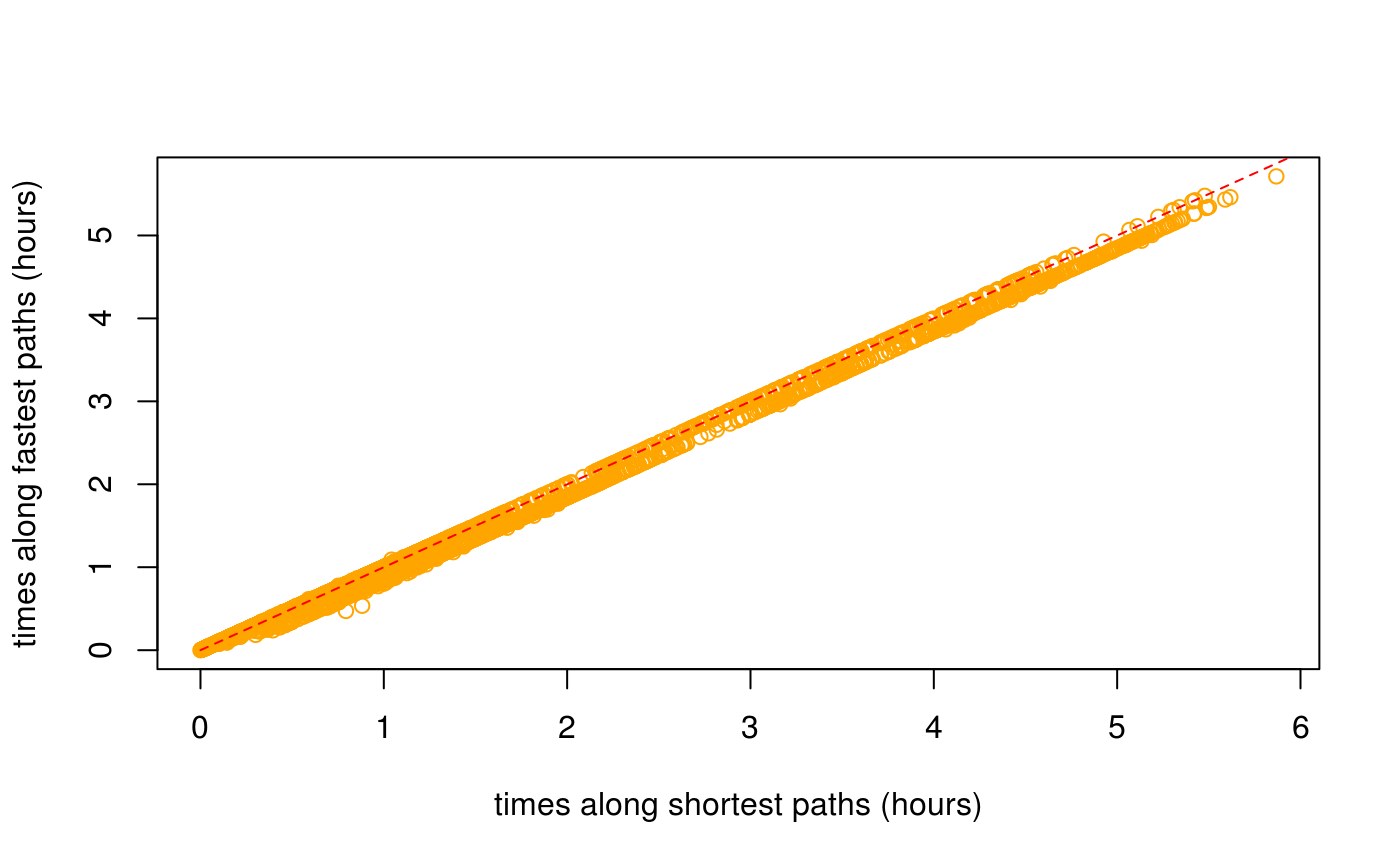
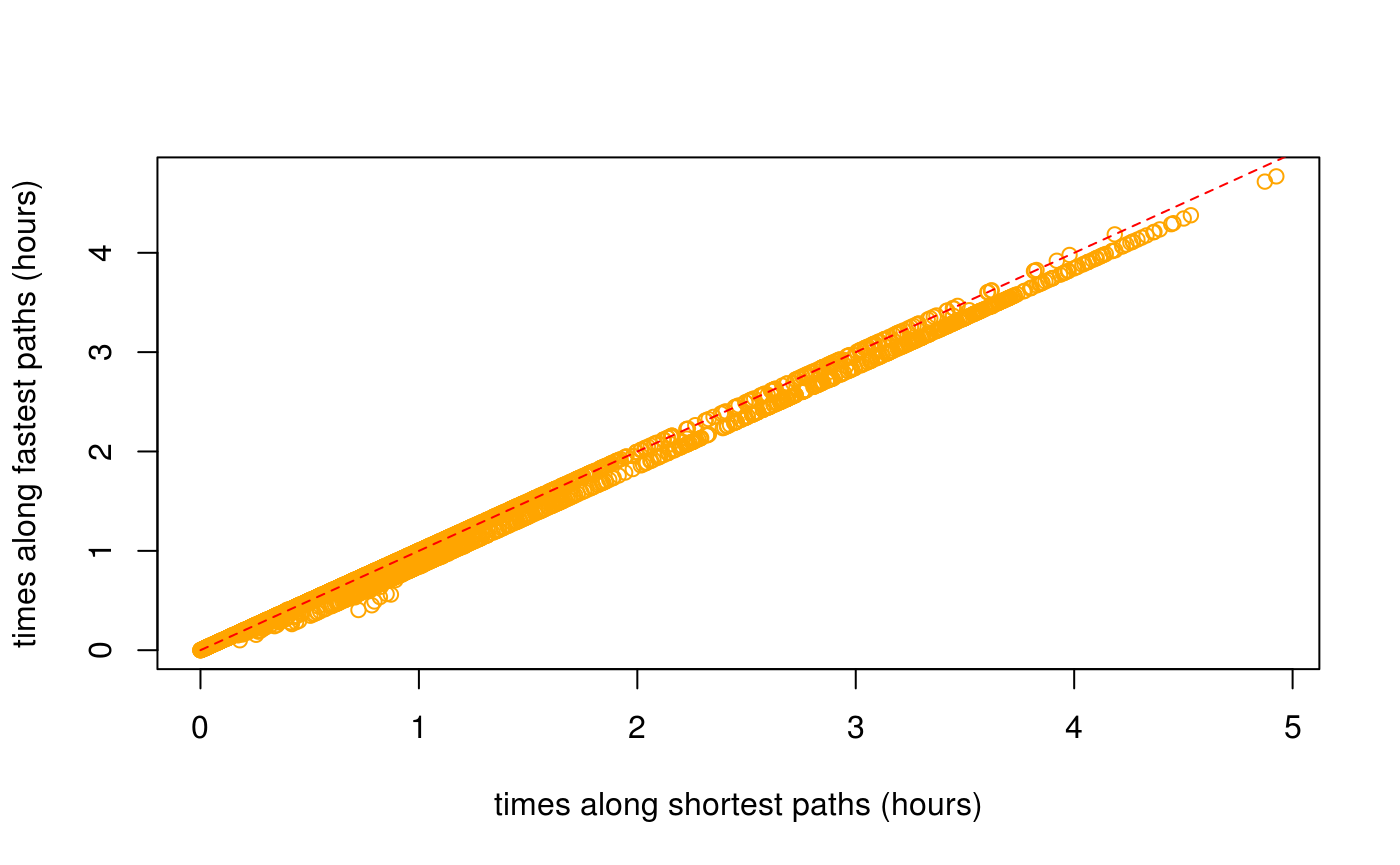
Built site for dodgr: 0.1.4.1@cdb0e49

diff --git a/articles/dodgr.html b/articles/dodgr.html
@@ -366,7 +366,7 @@ Figure 2: A <strong>dual</strong>-weighted, directed graph in which the weights 
 <div class="sourceCode" id="cb64"><pre class="sourceCode r"><code class="sourceCode r"><a class="sourceLine" id="cb64-1" data-line-number="1">d &lt;-<span class="st"> </span><span class="kw"><a href="../reference/dodgr_dists.html">dodgr_dists</a></span> (graph, <span class="dt">from =</span> xy)</a>
 <a class="sourceLine" id="cb64-2" data-line-number="2"><span class="kw"><a href="https://www.rdocumentation.org/packages/base/topics/dim">dim</a></span> (d); <span class="kw"><a href="https://www.rdocumentation.org/packages/base/topics/range">range</a></span> (d, <span class="dt">na.rm =</span> <span class="ot">TRUE</span>)</a></code></pre></div>
 <pre><code>## [1]  100 2861</code></pre>
-<pre><code>## [1]     0.0 28722.8</code></pre>
+<pre><code>## [1]     0.00 28624.11</code></pre>
 <p>If the <code>to</code> argument is also specified, the matrix returned will have rows matching <code>from</code> and columns matching <code>to</code></p>
 <div class="sourceCode" id="cb67"><pre class="sourceCode r"><code class="sourceCode r"><a class="sourceLine" id="cb67-1" data-line-number="1">d &lt;-<span class="st"> </span><span class="kw"><a href="../reference/dodgr_dists.html">dodgr_dists</a></span> (graph, <span class="dt">from =</span> xy, <span class="dt">to =</span> xy [<span class="dv">1</span><span class="op">:</span><span class="dv">10</span>, ])</a>
 <a class="sourceLine" id="cb67-2" data-line-number="2"><span class="kw"><a href="https://www.rdocumentation.org/packages/base/topics/dim">dim</a></span> (d)</a></code></pre></div>
@@ -420,31 +420,31 @@ Figure 2: A <strong>dual</strong>-weighted, directed graph in which the weights 
 <p>The comparisons are actually made on a randomly selected sub-component of the graph containing a defined number of vertices (with a default of 1,000, or the entire graph if it contains fewer than 1,000 vertices).</p>
 <div class="sourceCode" id="cb77"><pre class="sourceCode r"><code class="sourceCode r"><a class="sourceLine" id="cb77-1" data-line-number="1"><span class="kw"><a href="../reference/compare_heaps.html">compare_heaps</a></span> (graph, <span class="dt">nverts =</span> <span class="dv">100</span>, <span class="dt">replications =</span> <span class="dv">1</span>)</a></code></pre></div>
 <pre><code>##                                                                                   test
-## 6       d &lt;- dodgr_dists(graph_contracted, from = from_id, to = to_id, heap = "BHeap")
-## 7       d &lt;- dodgr_dists(graph_contracted, from = from_id, to = to_id, heap = "FHeap")
-## 8     d &lt;- dodgr_dists(graph_contracted, from = from_id, to = to_id, heap = "TriHeap")
-## 9  d &lt;- dodgr_dists(graph_contracted, from = from_id, to = to_id, heap = "TriHeapExt")
-## 11        d &lt;- dodgr_dists(graph_contracted, from = from_id, to = to_id, heap = "set")
 ## 12                  d &lt;- igraph::distances(igr, v = from_id, to = to_id, mode = "out")
+## 7       d &lt;- dodgr_dists(graph_contracted, from = from_id, to = to_id, heap = "FHeap")
+## 9  d &lt;- dodgr_dists(graph_contracted, from = from_id, to = to_id, heap = "TriHeapExt")
+## 10     d &lt;- dodgr_dists(graph_contracted, from = from_id, to = to_id, heap = "Heap23")
 ## 1                  d &lt;- dodgr_dists(graph, from = from_id, to = to_id, heap = "BHeap")
 ## 2                  d &lt;- dodgr_dists(graph, from = from_id, to = to_id, heap = "FHeap")
 ## 3                d &lt;- dodgr_dists(graph, from = from_id, to = to_id, heap = "TriHeap")
 ## 4             d &lt;- dodgr_dists(graph, from = from_id, to = to_id, heap = "TriHeapExt")
 ## 5                 d &lt;- dodgr_dists(graph, from = from_id, to = to_id, heap = "Heap23")
-## 10     d &lt;- dodgr_dists(graph_contracted, from = from_id, to = to_id, heap = "Heap23")
+## 6       d &lt;- dodgr_dists(graph_contracted, from = from_id, to = to_id, heap = "BHeap")
+## 8     d &lt;- dodgr_dists(graph_contracted, from = from_id, to = to_id, heap = "TriHeap")
+## 11        d &lt;- dodgr_dists(graph_contracted, from = from_id, to = to_id, heap = "set")
 ##    replications elapsed relative user.self sys.self user.child sys.child
-## 6             1   0.002      1.0     0.004        0          0         0
-## 7             1   0.002      1.0     0.000        0          0         0
-## 8             1   0.002      1.0     0.004        0          0         0
-## 9             1   0.002      1.0     0.000        0          0         0
-## 11            1   0.002      1.0     0.004        0          0         0
-## 12            1   0.002      1.0     0.000        0          0         0
-## 1             1   0.003      1.5     0.004        0          0         0
-## 2             1   0.003      1.5     0.004        0          0         0
-## 3             1   0.003      1.5     0.004        0          0         0
-## 4             1   0.003      1.5     0.000        0          0         0
-## 5             1   0.003      1.5     0.004        0          0         0
-## 10            1   0.003      1.5     0.004        0          0         0</code></pre>
+## 12            1   0.001        1     0.000        0          0         0
+## 7             1   0.002        2     0.004        0          0         0
+## 9             1   0.002        2     0.000        0          0         0
+## 10            1   0.002        2     0.004        0          0         0
+## 1             1   0.003        3     0.004        0          0         0
+## 2             1   0.003        3     0.000        0          0         0
+## 3             1   0.003        3     0.000        0          0         0
+## 4             1   0.003        3     0.004        0          0         0
+## 5             1   0.003        3     0.004        0          0         0
+## 6             1   0.003        3     0.004        0          0         0
+## 8             1   0.003        3     0.004        0          0         0
+## 11            1   0.003        3     0.004        0          0         0</code></pre>
 <p>The key column of that <code>data.frame</code> is <code>relative</code>, which quantifies the relative performance of each test in relation to the best which is given a score of 1. <code>dodgr</code> using the default <code>heap = "BHeap"</code>, which is a binary heap priority queue, performs faster than <code>igraph</code> <span class="citation">(Csardi and Nepusz 2006)</span> for these graphs. Different kind of graphs will perform differently with different priority queue structures, and this function enables users to empirically discern the optimal heap for their kind of graph.</p>
 <p>Note, however, that this is not an entirely fair comparison, because <code>dodgr</code> calculates dual-weighted distances, whereas <code>igraph</code>—and indeed all other <strong>R</strong> packages—only directly calculate distances based on a single set of weights. Implementing dual-weighted routing in these cases requires explicitly re-tracing all paths and summing the second set of weights along each path. A time comparison in that case would be very strongly in favour of <code>dodgr</code>. Moreover, <code>dodgr</code> can convert graphs to contracted form through removing redundant vertices, as detailed in the following section. Doing so greatly improves performance with respect to <code>igraph</code>.</p>
 <p>For those wishing to do explicit comparisons themselves, the following code generates the <code>igraph</code> equivalent of <code><a href="../reference/dodgr_dists.html">dodgr_dists()</a></code>, although of course for single-weighted graphs only:</p>
@@ -482,10 +482,10 @@ Figure 3: <strong>(A)</strong> Vertex#2 is redundant for routing calculations fr
 <a class="sourceLine" id="cb85-6" data-line-number="6">                       <span class="dt">replications =</span> <span class="dv">2</span>)</a></code></pre></div>
 <pre><code>##                                             test replications elapsed
 ## 2 d2 &lt;- dodgr_dists(graph, from = from, to = to)            2   0.049
-## 1   d2 &lt;- dodgr_dists(grc, from = from, to = to)            2   0.009
+## 1   d2 &lt;- dodgr_dists(grc, from = from, to = to)            2   0.010
 ##   relative user.self sys.self user.child sys.child
-## 2    5.444     0.068    0.000          0         0
-## 1    1.000     0.012    0.004          0         0</code></pre>
+## 2      4.9     0.072        0          0         0
+## 1      1.0     0.012        0          0         0</code></pre>
 <p>And contracting the graph has a similar effect of speeding up pairwise routing between these 100 points. All routing algorithms scale non-linearly with size, and relative improvements in efficiency will be even greater for larger graphs.</p>
 <div id="routing-on-contracted-graphs" class="section level2">
 <h2 class="hasAnchor">
@@ -497,11 +497,11 @@ Figure 3: <strong>(A)</strong> Vertex#2 is redundant for routing calculations fr
 <pre><code>## [1] 688</code></pre>
 <div class="sourceCode" id="cb89"><pre class="sourceCode r"><code class="sourceCode r"><a class="sourceLine" id="cb89-1" data-line-number="1">verts &lt;-<span class="st"> </span><span class="kw"><a href="https://www.rdocumentation.org/packages/base/topics/sample">sample</a></span> (<span class="kw"><a href="../reference/dodgr_vertices.html">dodgr_vertices</a></span> (graph)<span class="op">$</span>id, <span class="dt">size =</span> <span class="dv">100</span>)</a>
 <a class="sourceLine" id="cb89-2" data-line-number="2"><span class="kw"><a href="https://www.rdocumentation.org/packages/utils/topics/head">head</a></span> (verts) <span class="co"># a character vector</span></a></code></pre></div>
-<pre><code>## [1] "1691496075" "2608163913" "3544918690" "2398957733" "4035136510"
-## [6] "286632899"</code></pre>
+<pre><code>## [1] "1143452226" "2608159729" "338908580"  "338905245"  "1376769050"
+## [6] "2627465902"</code></pre>
 <div class="sourceCode" id="cb91"><pre class="sourceCode r"><code class="sourceCode r"><a class="sourceLine" id="cb91-1" data-line-number="1">grc &lt;-<span class="st"> </span><span class="kw"><a href="../reference/dodgr_contract_graph.html">dodgr_contract_graph</a></span> (graph, verts)<span class="op">$</span>graph</a>
 <a class="sourceLine" id="cb91-2" data-line-number="2"><span class="kw"><a href="https://www.rdocumentation.org/packages/base/topics/nrow">nrow</a></span> (grc)</a></code></pre></div>
-<pre><code>## [1] 855</code></pre>
+<pre><code>## [1] 870</code></pre>
 <p>Retaining the nominated vertices yields a graph with considerably more edges than the fully contracted graph excluding these vertices. The <code><a href="../reference/dodgr_dists.html">dodgr_dists()</a></code> function can be applied to the latter graph to obtain accurate distances precisely routed between these points, yet using the speed advantages of graph contraction.</p>
 </div>
 </div>
@@ -542,43 +542,30 @@ Figure 3: <strong>(A)</strong> Vertex#2 is redundant for routing calculations fr
 <pre><code>## [1] 10</code></pre>
 <p>The result (<code>dp</code>) is a list of 10 items, each of which contains 5 vectors. An example is,</p>
 <div class="sourceCode" id="cb98"><pre class="sourceCode r"><code class="sourceCode r"><a class="sourceLine" id="cb98-1" data-line-number="1">dp [[<span class="dv">1</span>]] [[<span class="dv">1</span>]]</a></code></pre></div>
-<pre><code>##   [1] "977472882"  "3818709606" "3818709607" "3818709608" "3818709609"
-##   [6] "3818709610" "3818709611" "3818709612" "339318473"  "339318471" 
-##  [11] "339318470"  "2636414337" "339318467"  "2636414331" "2636414338"
-##  [16] "339059754"  "977478675"  "1676740773" "4474520824" "245631133" 
-##  [21] "339059758"  "977478643"  "4474520825" "2627477681" "2627477680"
-##  [26] "2627477677" "2627477679" "3456932070" "2627477678" "2627477682"
-##  [31] "339574320"  "2398957885" "2398957883" "286632901"  "1148815150"
-##  [36] "676875132"  "2398957865" "286632900"  "980400336"  "2398957864"
-##  [41] "286632899"  "2398957863" "1715805189" "1715805188" "2398957850"
-##  [46] "286632898"  "2398957846" "1715805187" "980400489"  "338904394" 
-##  [51] "3921515457" "2398957849" "2398957851" "2398957854" "286632897" 
-##  [56] "2398957856" "1054864311" "338904393"  "4035136503" "2627477006"
-##  [61] "338512693"  "2398957844" "2398957842" "2398957841" "1604033309"
-##  [66] "2398957838" "286632896"  "2398957835" "2398957831" "1390214618"
-##  [71] "286632895"  "2398957814" "2398957809" "340148007"  "340148006" 
-##  [76] "2398957798" "2398957797" "2398957796" "2588155705" "2588155706"
-##  [81] "2588155726" "2588155778" "2588155740" "2588155776" "2588155714"
-##  [86] "2588155703" "2588155718" "2588155771" "2588155779" "2588155712"
-##  [91] "2588155755" "2588155754" "2588155750" "2588155777" "2588155716"
-##  [96] "2588155757" "2588155711" "2588155723" "2588155704" "2588155719"
-## [101] "2588155713" "2588155746" "2588155729" "2588155707" "2588155747"
-## [106] "2588155763" "2588155772" "2588155756" "2588155724" "2588155751"
-## [111] "2588155767" "2588155765" "2588155734" "2588155732" "2588155760"
-## [116] "2588155730" "2588155731" "2588155727" "2588155717" "2588155737"
-## [121] "2588155773" "2588155741" "2588155725" "2588155743" "2588155708"
-## [126] "2588155748"</code></pre>
+<pre><code>##  [1] "339574823"  "1668645472" "1668645470" "3818714154" "339574820" 
+##  [6] "339574819"  "3818714155" "2398957686" "339574631"  "2717241324"
+## [11] "1148814809" "2398957654" "2398957639" "339574630"  "339574629" 
+## [16] "2398957619" "339574628"  "1427115955" "338905128"  "1376769164"
+## [21] "1376768779" "338905219"  "2398957589" "2398957588" "1376768510"
+## [26] "1376769086" "2398957584" "338905220"  "2398957576" "1427594104"
+## [31] "2398957571" "2398957570" "2398957568" "338905221"  "2398957564"
+## [36] "338905227"  "2398957561" "2398957557" "2398957549" "338905245" 
+## [41] "2398957546" "2398957544" "2398957543" "2398957542" "676635860" 
+## [46] "2398957537" "2398957532" "2398957526" "2398957521" "676875267" 
+## [51] "2398957539" "2419196948" "313796433"  "1376768773" "2398957554"
+## [56] "2398957555" "313796432"  "3338186986" "2398957563" "2398957567"
+## [61] "313796431"  "313796430"  "1376769158" "1427594112"</code></pre>
 <p>For spatial graphs, the coordinates of these paths can be obtained by extracting the vertices with <code><a href="../reference/dodgr_vertices.html">dodgr_vertices()</a></code> and matching the vertex IDs:</p>
 <div class="sourceCode" id="cb100"><pre class="sourceCode r"><code class="sourceCode r"><a class="sourceLine" id="cb100-1" data-line-number="1">verts &lt;-<span class="st"> </span><span class="kw"><a href="../reference/dodgr_vertices.html">dodgr_vertices</a></span> (graph)</a>
 <a class="sourceLine" id="cb100-2" data-line-number="2">path1 &lt;-<span class="st"> </span>verts [<span class="kw"><a href="https://www.rdocumentation.org/packages/base/topics/match">match</a></span> (dp [[<span class="dv">1</span>]] [[<span class="dv">1</span>]], verts<span class="op">$</span>id), ]</a>
 <a class="sourceLine" id="cb100-3" data-line-number="3"><span class="kw"><a href="https://www.rdocumentation.org/packages/utils/topics/head">head</a></span> (path1)</a></code></pre></div>
 <pre><code>##              id        x        y component    n
-## 5136  977472882 76.46812 15.33634         1 2528
-## 5138 3818709606 76.46803 15.33643         1 2529
-## 5140 3818709607 76.46786 15.33643         1 2530
-## 5142 3818709608 76.46773 15.33631         1 2531
-## 5144 3818709609 76.46762 15.33624         1 2532
-## 5146 3818709610 76.46763 15.33614         1 2533</code></pre>
+## 540   339574823 76.47136 15.31896         1  275
+## 539  1668645472 76.47131 15.31880         1  274
+## 3178 1668645470 76.47131 15.31876         1 1594
+## 566  3818714154 76.47102 15.31856         1  288
+## 564   339574820 76.47107 15.31847         1  287
+## 562   339574819 76.47167 15.31746         1  286</code></pre>
 <p>Paths calculated on contracted graphs will of course have fewer vertices than those calculated on full graphs.</p>
 </div>
 <div id="aggregated-flows" class="section level1">
@@ -622,7 +609,7 @@ Figure 3: <strong>(A)</strong> Vertex#2 is redundant for routing calculations fr
 <p>Most flows are zero because they have only been calculated between very few points in the graph.</p>
 <div class="sourceCode" id="cb105"><pre class="sourceCode r"><code class="sourceCode r"><a class="sourceLine" id="cb105-1" data-line-number="1"><span class="kw"><a href="https://www.rdocumentation.org/packages/base/topics/summary">summary</a></span> (graph_f<span class="op">$</span>flow)</a></code></pre></div>
 <pre><code>##    Min. 1st Qu.  Median    Mean 3rd Qu.    Max. 
-##   0.000   0.000   0.000   7.154   2.479 100.085</code></pre>
+##   0.000   0.000   0.000   3.573   0.000  52.989</code></pre>
 </div>
 <div id="flow-dispersal" class="section level2">
 <h2 class="hasAnchor">
@@ -632,7 +619,7 @@ Figure 3: <strong>(A)</strong> Vertex#2 is redundant for routing calculations fr
 <a class="sourceLine" id="cb107-2" data-line-number="2">graph_f &lt;-<span class="st"> </span><span class="kw"><a href="../reference/dodgr_flows_disperse.html">dodgr_flows_disperse</a></span> (graph, <span class="dt">from =</span> from, <span class="dt">dens =</span> dens)</a>
 <a class="sourceLine" id="cb107-3" data-line-number="3"><span class="kw"><a href="https://www.rdocumentation.org/packages/base/topics/summary">summary</a></span> (graph_f<span class="op">$</span>flow)</a></code></pre></div>
 <pre><code>##      Min.   1st Qu.    Median      Mean   3rd Qu.      Max. 
-## 0.000e+00 0.000e+00 0.000e+00 3.627e-05 0.000e+00 8.885e-02</code></pre>
+## 0.000e+00 0.000e+00 0.000e+00 1.212e-05 0.000e+00 5.800e-02</code></pre>
 </div>
 <div id="merging-directed-flows" class="section level2">
 <h2 class="hasAnchor">
@@ -642,7 +629,7 @@ Figure 3: <strong>(A)</strong> Vertex#2 is redundant for routing calculations fr
 <p>Resultant graphs produced by <code><a href="../reference/merge_directed_flows.html">merge_directed_flows()</a></code> only include those edges having non-zero flows, and so:</p>
 <div class="sourceCode" id="cb110"><pre class="sourceCode r"><code class="sourceCode r"><a class="sourceLine" id="cb110-1" data-line-number="1"><span class="kw"><a href="https://www.rdocumentation.org/packages/base/topics/nrow">nrow</a></span> (graph_f); <span class="kw"><a href="https://www.rdocumentation.org/packages/base/topics/nrow">nrow</a></span> (graph_undir) <span class="co"># the latter is much smaller</span></a></code></pre></div>
 <pre><code>## [1] 5845</code></pre>
-<pre><code>## [1] 1974</code></pre>
+<pre><code>## [1] 1640</code></pre>
 <p>The resultant graph can readily be merged with the original graph to regain the original data on vertex coordinates through</p>
 <div class="sourceCode" id="cb113"><pre class="sourceCode r"><code class="sourceCode r"><a class="sourceLine" id="cb113-1" data-line-number="1">graph &lt;-<span class="st"> </span>graph [graph_undir<span class="op">$</span>edge_id, ]</a>
 <a class="sourceLine" id="cb113-2" data-line-number="2">graph<span class="op">$</span>flow &lt;-<span class="st"> </span>graph_undir<span class="op">$</span>flow</a></code></pre></div>

diff --git a/articles/times.html b/articles/times.html
@@ -233,11 +233,11 @@ Figure 1: Graph modification to account for turn angles, which introduces the ad
 <p><img src="times_files/figure-html/shortest-vs-fastest-1.png" width="700"></p>
 <p>The average distance between the two (in metres) is:</p>
 <div class="sourceCode" id="cb11"><pre class="sourceCode r"><code class="sourceCode r"><a class="sourceLine" id="cb11-1" data-line-number="1"><span class="kw"><a href="https://www.rdocumentation.org/packages/base/topics/mean">mean</a></span> (<span class="kw"><a href="https://www.rdocumentation.org/packages/base/topics/MathFun">abs</a></span> (d_time <span class="op">-</span><span class="st"> </span>d_dist), <span class="dt">na.rm =</span> <span class="ot">TRUE</span>)</a></code></pre></div>
-<pre><code>## [1] 31.20867</code></pre>
+<pre><code>## [1] 28.91005</code></pre>
 <p>The plot reveals that shortest distances are indeed somewhat shorter than distances along fastest paths, but also that some fastest paths are actually shorter than shortest paths:</p>
 <div class="sourceCode" id="cb13"><pre class="sourceCode r"><code class="sourceCode r"><a class="sourceLine" id="cb13-1" data-line-number="1">index &lt;-<span class="st"> </span><span class="kw"><a href="https://www.rdocumentation.org/packages/base/topics/which">which</a></span> (<span class="op">!</span><span class="kw"><a href="https://www.rdocumentation.org/packages/base/topics/NA">is.na</a></span> (d_time) <span class="op">&amp;</span><span class="st"> </span><span class="op">!</span><span class="kw"><a href="https://www.rdocumentation.org/packages/base/topics/NA">is.na</a></span> (d_dist))</a>
 <a class="sourceLine" id="cb13-2" data-line-number="2"><span class="kw"><a href="https://www.rdocumentation.org/packages/base/topics/length">length</a></span> (<span class="kw"><a href="https://www.rdocumentation.org/packages/base/topics/which">which</a></span> (d_time [index] <span class="op">&lt;</span><span class="st"> </span>d_dist [index])) <span class="op">/</span><span class="st"> </span><span class="kw"><a href="https://www.rdocumentation.org/packages/base/topics/length">length</a></span> (index)</a></code></pre></div>
-<pre><code>## [1] 0.01486784</code></pre>
+<pre><code>## [1] 0.01195446</code></pre>
 <p>While <code>dodgr</code> and indeed all routing engines attempt to maximally reconcile differences between fastest and shortest routes, there nevertheless remain important discrepancies. Foremost among these, and the primary reason why some fastest routes may in fact be shorter than shortest routes, is that fastest routes allocate preferences for different kinds of way based both on the <code>value</code> column in the <code>weighting_profiles$weighting_profiles</code> table illustrated above, and on the actual maximum speed of a given edge, which itself may be a combination of maximum speeds as specified in OSM itself, maximum speeds from the <code>weighting_profiles$weighting_profiles</code> table, or values specific to a given surface. The result is that some unique combination of maximum speeds along a network may lead to <em>fastest</em> routes being preferentially directed along a path that is actually shorter than the direct shortest path which is calculated independent of maximum speed values.</p>
 <p>Such discrepancies are important in understanding differences in routes <em>times</em> calculated along shortest versus fastest paths. These times can be calculated (in seconds) with the <a href="https://atfutures.github.io/dodgr/reference/dodgr_times.html"><code><a href="../reference/dodgr_times.html">dodgr_times()</a></code></a> function:</p>
 <div class="sourceCode" id="cb15"><pre class="sourceCode r"><code class="sourceCode r"><a class="sourceLine" id="cb15-1" data-line-number="1">t_dist &lt;-<span class="st"> </span><span class="kw"><a href="../reference/dodgr_times.html">dodgr_times</a></span> (graph, <span class="dt">from =</span> from, <span class="dt">to =</span> to, <span class="dt">shortest =</span> <span class="ot">TRUE</span>) <span class="co"># default</span></a>
@@ -248,11 +248,11 @@ Figure 1: Graph modification to account for turn angles, which introduces the ad
 <a class="sourceLine" id="cb15-6" data-line-number="6"><span class="kw"><a href="https://www.rdocumentation.org/packages/graphics/topics/lines">lines</a></span> (<span class="dv">0</span><span class="op">:</span><span class="dv">100</span>, <span class="dv">0</span><span class="op">:</span><span class="dv">100</span>, <span class="dt">col =</span> <span class="st">"red"</span>, <span class="dt">lty =</span> <span class="dv">2</span>)</a></code></pre></div>
 <p><img src="times_files/figure-html/shortest-vs-fastest-times-1.png" width="700"></p>
 <div class="sourceCode" id="cb16"><pre class="sourceCode r"><code class="sourceCode r"><a class="sourceLine" id="cb16-1" data-line-number="1"><span class="kw"><a href="https://www.rdocumentation.org/packages/base/topics/mean">mean</a></span> (<span class="kw"><a href="https://www.rdocumentation.org/packages/base/topics/MathFun">abs</a></span> (t_time <span class="op">-</span><span class="st"> </span>t_dist), <span class="dt">na.rm =</span> <span class="ot">TRUE</span>)</a></code></pre></div>
-<pre><code>## [1] 135.7356</code></pre>
+<pre><code>## [1] 93.77696</code></pre>
 <p>As above, times along fastest paths are generally less than times along shortest paths, although there are again a few exceptions:</p>
 <div class="sourceCode" id="cb18"><pre class="sourceCode r"><code class="sourceCode r"><a class="sourceLine" id="cb18-1" data-line-number="1">index &lt;-<span class="st"> </span><span class="kw"><a href="https://www.rdocumentation.org/packages/base/topics/which">which</a></span> (<span class="op">!</span><span class="kw"><a href="https://www.rdocumentation.org/packages/base/topics/NA">is.na</a></span> (t_time) <span class="op">&amp;</span><span class="st"> </span><span class="op">!</span><span class="kw"><a href="https://www.rdocumentation.org/packages/base/topics/NA">is.na</a></span> (t_dist))</a>
 <a class="sourceLine" id="cb18-2" data-line-number="2"><span class="kw"><a href="https://www.rdocumentation.org/packages/base/topics/length">length</a></span> (<span class="kw"><a href="https://www.rdocumentation.org/packages/base/topics/which">which</a></span> (t_dist [index] <span class="op">&lt;</span><span class="st"> </span>t_time [index])) <span class="op">/</span><span class="st"> </span><span class="kw"><a href="https://www.rdocumentation.org/packages/base/topics/length">length</a></span> (index)</a></code></pre></div>
-<pre><code>## [1] 0.007892805</code></pre>
+<pre><code>## [1] 0.01290323</code></pre>
 <p>These results demonstrate how the combination of the <a href="https://atfutures.github.io/dodgr/reference/dodgr_distances.html"><code><a href="../reference/dodgr_distances.html">dodgr_distances()</a></code></a> and <a href="https://atfutures.github.io/dodgr/reference/dodgr_times.html"><code><a href="../reference/dodgr_times.html">dodgr_times()</a></code></a> functions enable calculation of both distances and times along both shortest and fastest paths.</p>
 <div id="time-based-paths-and-flow-aggregation" class="section level2">
 <h2 class="hasAnchor">

diff --git a/reference/compare_heaps.html b/reference/compare_heaps.html
@@ -163,22 +163,22 @@ fair comparisons, run only once or re-start the current R session.</p>
 #&gt; 12                  d &lt;- igraph::distances(igr, v = from_id, to = to_id, mode = "out")
 #&gt; 1                  d &lt;- dodgr_dists(graph, from = from_id, to = to_id, heap = "BHeap")
 #&gt; 2                  d &lt;- dodgr_dists(graph, from = from_id, to = to_id, heap = "FHeap")
-#&gt; 5                 d &lt;- dodgr_dists(graph, from = from_id, to = to_id, heap = "Heap23")
 #&gt; 3                d &lt;- dodgr_dists(graph, from = from_id, to = to_id, heap = "TriHeap")
+#&gt; 5                 d &lt;- dodgr_dists(graph, from = from_id, to = to_id, heap = "Heap23")
 #&gt; 4             d &lt;- dodgr_dists(graph, from = from_id, to = to_id, heap = "TriHeapExt")
 #&gt;    replications elapsed relative user.self sys.self user.child sys.child
-#&gt; 6             1   0.008    1.000     0.012        0          0         0
-#&gt; 11            1   0.008    1.000     0.012        0          0         0
-#&gt; 7             1   0.009    1.125     0.016        0          0         0
-#&gt; 10            1   0.009    1.125     0.016        0          0         0
-#&gt; 8             1   0.010    1.250     0.016        0          0         0
-#&gt; 9             1   0.010    1.250     0.012        0          0         0
-#&gt; 12            1   0.019    2.375     0.020        0          0         0
-#&gt; 1             1   0.031    3.875     0.052        0          0         0
-#&gt; 2             1   0.041    5.125     0.072        0          0         0
-#&gt; 5             1   0.042    5.250     0.076        0          0         0
-#&gt; 3             1   0.043    5.375     0.076        0          0         0
-#&gt; 4             1   0.045    5.625     0.044        0          0         0</div></pre>
+#&gt; 6             1   0.010      1.0     0.016        0          0         0
+#&gt; 11            1   0.010      1.0     0.016        0          0         0
+#&gt; 7             1   0.012      1.2     0.020        0          0         0
+#&gt; 10            1   0.012      1.2     0.020        0          0         0
+#&gt; 8             1   0.013      1.3     0.020        0          0         0
+#&gt; 9             1   0.013      1.3     0.016        0          0         0
+#&gt; 12            1   0.024      2.4     0.024        0          0         0
+#&gt; 1             1   0.037      3.7     0.064        0          0         0
+#&gt; 2             1   0.049      4.9     0.088        0          0         0
+#&gt; 3             1   0.051      5.1     0.088        0          0         0
+#&gt; 5             1   0.051      5.1     0.092        0          0         0
+#&gt; 4             1   0.057      5.7     0.056        0          0         0</div></pre>
   </div>
   <div class="col-md-3 hidden-xs hidden-sm" id="sidebar">
     <h2>Contents</h2>

diff --git a/reference/match_points_to_graph.html b/reference/match_points_to_graph.html
@@ -152,9 +152,9 @@ matching.</p></td>
                   <span class='kw'>y</span> <span class='kw'>=</span> <span class='fu'><a href='https://www.rdocumentation.org/packages/base/topics/Extremes'>min</a></span> (<span class='no'>verts</span>$<span class='no'>y</span>) + <span class='fu'><a href='https://www.rdocumentation.org/packages/stats/topics/Uniform'>runif</a></span> (<span class='no'>npts</span>) * <span class='fu'><a href='https://www.rdocumentation.org/packages/base/topics/diff'>diff</a></span> (<span class='fu'><a href='https://www.rdocumentation.org/packages/base/topics/range'>range</a></span> (<span class='no'>verts</span>$<span class='no'>y</span>))
                   )
 <span class='no'>pts</span> <span class='kw'>&lt;-</span> <span class='fu'><a href='match_pts_to_graph.html'>match_pts_to_graph</a></span> (<span class='no'>verts</span>, <span class='no'>xy</span>)
-<span class='no'>pts</span> <span class='co'># an index into verts</span></div><div class='output co'>#&gt;  [1]  578 2194 1568  892  759  399   24  758  760 2793</div><div class='input'><span class='no'>pts</span> <span class='kw'>&lt;-</span> <span class='no'>verts</span>$<span class='no'>id</span> [<span class='no'>pts</span>]
-<span class='no'>pts</span> <span class='co'># names of those vertices</span></div><div class='output co'>#&gt;  [1] "3544918710" "2627486260" "1398748009" "1206252868" "1204772890"
-#&gt;  [6] "1376768504" "313796397"  "1388482047" "1204772804" "4506481406"</div></pre>
+<span class='no'>pts</span> <span class='co'># an index into verts</span></div><div class='output co'>#&gt;  [1] 1568  892  759  399   24  758  760 2793  771  581</div><div class='input'><span class='no'>pts</span> <span class='kw'>&lt;-</span> <span class='no'>verts</span>$<span class='no'>id</span> [<span class='no'>pts</span>]
+<span class='no'>pts</span> <span class='co'># names of those vertices</span></div><div class='output co'>#&gt;  [1] "1398748009" "1206252868" "1204772890" "1376768504" "313796397" 
+#&gt;  [6] "1388482047" "1204772804" "4506481406" "1204772759" "3544918713"</div></pre>
   </div>
   <div class="col-md-3 hidden-xs hidden-sm" id="sidebar">
     <h2>Contents</h2>

diff --git a/reference/match_pts_to_graph.html b/reference/match_pts_to_graph.html
@@ -152,9 +152,9 @@ matching.</p></td>
                   <span class='kw'>y</span> <span class='kw'>=</span> <span class='fu'><a href='https://www.rdocumentation.org/packages/base/topics/Extremes'>min</a></span> (<span class='no'>verts</span>$<span class='no'>y</span>) + <span class='fu'><a href='https://www.rdocumentation.org/packages/stats/topics/Uniform'>runif</a></span> (<span class='no'>npts</span>) * <span class='fu'><a href='https://www.rdocumentation.org/packages/base/topics/diff'>diff</a></span> (<span class='fu'><a href='https://www.rdocumentation.org/packages/base/topics/range'>range</a></span> (<span class='no'>verts</span>$<span class='no'>y</span>))
                   )
 <span class='no'>pts</span> <span class='kw'>&lt;-</span> <span class='fu'>match_pts_to_graph</span> (<span class='no'>verts</span>, <span class='no'>xy</span>)
-<span class='no'>pts</span> <span class='co'># an index into verts</span></div><div class='output co'>#&gt;  [1]  900 1484 1568  542  774  900 1827  758  527  434</div><div class='input'><span class='no'>pts</span> <span class='kw'>&lt;-</span> <span class='no'>verts</span>$<span class='no'>id</span> [<span class='no'>pts</span>]
-<span class='no'>pts</span> <span class='co'># names of those vertices</span></div><div class='output co'>#&gt;  [1] "571423209"  "1376768690" "1398748009" "677638827"  "1204772781"
-#&gt;  [6] "571423209"  "2588119056" "1388482047" "1161117413" "1128374394"</div></pre>
+<span class='no'>pts</span> <span class='co'># an index into verts</span></div><div class='output co'>#&gt;  [1] 1568  542  774  900 1827  758  527  434  431  760</div><div class='input'><span class='no'>pts</span> <span class='kw'>&lt;-</span> <span class='no'>verts</span>$<span class='no'>id</span> [<span class='no'>pts</span>]
+<span class='no'>pts</span> <span class='co'># names of those vertices</span></div><div class='output co'>#&gt;  [1] "1398748009" "677638827"  "1204772781" "571423209"  "2588119056"
+#&gt;  [6] "1388482047" "1161117413" "1128374394" "977461235"  "1204772804"</div></pre>
   </div>
   <div class="col-md-3 hidden-xs hidden-sm" id="sidebar">
     <h2>Contents</h2>

diff --git a/reference/dodgr_sample.html b/reference/dodgr_sample.html
@@ -141,7 +141,7 @@ the requested <code>nverts</code>.</p>
     <h2 class="hasAnchor" id="examples"><a class="anchor" href="#examples"></a>Examples</h2>
     <pre class="examples"><div class='input'><span class='no'>graph</span> <span class='kw'>&lt;-</span> <span class='fu'><a href='weight_streetnet.html'>weight_streetnet</a></span> (<span class='no'>hampi</span>)
 <span class='fu'><a href='https://www.rdocumentation.org/packages/base/topics/nrow'>nrow</a></span> (<span class='no'>graph</span>) <span class='co'># 5,742</span></div><div class='output co'>#&gt; [1] 5845</div><div class='input'><span class='no'>graph</span> <span class='kw'>&lt;-</span> <span class='fu'>dodgr_sample</span> (<span class='no'>graph</span>, <span class='kw'>nverts</span> <span class='kw'>=</span> <span class='fl'>200</span>)
-<span class='fu'><a href='https://www.rdocumentation.org/packages/base/topics/nrow'>nrow</a></span> (<span class='no'>graph</span>) <span class='co'># generally around 400 edges</span></div><div class='output co'>#&gt; [1] 403</div><div class='input'><span class='fu'><a href='https://www.rdocumentation.org/packages/base/topics/nrow'>nrow</a></span> (<span class='fu'><a href='dodgr_vertices.html'>dodgr_vertices</a></span> (<span class='no'>graph</span>)) <span class='co'># 200</span></div><div class='output co'>#&gt; [1] 200</div></pre>
+<span class='fu'><a href='https://www.rdocumentation.org/packages/base/topics/nrow'>nrow</a></span> (<span class='no'>graph</span>) <span class='co'># generally around 400 edges</span></div><div class='output co'>#&gt; [1] 397</div><div class='input'><span class='fu'><a href='https://www.rdocumentation.org/packages/base/topics/nrow'>nrow</a></span> (<span class='fu'><a href='dodgr_vertices.html'>dodgr_vertices</a></span> (<span class='no'>graph</span>)) <span class='co'># 200</span></div><div class='output co'>#&gt; [1] 200</div></pre>
   </div>
   <div class="col-md-3 hidden-xs hidden-sm" id="sidebar">
     <h2>Contents</h2>

diff --git a/reference/dodgr_flows_aggregate.html b/reference/dodgr_flows_aggregate.html
@@ -175,7 +175,7 @@ Fibonacci Heap (default; <code>FHeap</code>), Binary Heap (<code>BHeap</code>),
 <span class='co'># undirected flows on an equivalent undirected graph with:</span>
 <span class='no'>graph_undir</span> <span class='kw'>&lt;-</span> <span class='fu'><a href='merge_directed_flows.html'>merge_directed_flows</a></span> (<span class='no'>graph</span>)
 <span class='co'># This graph will only include those edges having non-zero flows, and so:</span>
-<span class='fu'><a href='https://www.rdocumentation.org/packages/base/topics/nrow'>nrow</a></span> (<span class='no'>graph</span>); <span class='fu'><a href='https://www.rdocumentation.org/packages/base/topics/nrow'>nrow</a></span> (<span class='no'>graph_undir</span>) <span class='co'># the latter is much smaller</span></div><div class='output co'>#&gt; [1] 5845</div><div class='output co'>#&gt; [1] 684</div><div class='input'>
+<span class='fu'><a href='https://www.rdocumentation.org/packages/base/topics/nrow'>nrow</a></span> (<span class='no'>graph</span>); <span class='fu'><a href='https://www.rdocumentation.org/packages/base/topics/nrow'>nrow</a></span> (<span class='no'>graph_undir</span>) <span class='co'># the latter is much smaller</span></div><div class='output co'>#&gt; [1] 5845</div><div class='output co'>#&gt; [1] 809</div><div class='input'>
 # The following code can be used to convert the resultant graph to an `sf`
 # object suitable for plotting
 </div><span class='co'># NOT RUN {</span>

diff --git a/index.html b/index.html
@@ -511,7 +511,7 @@
 <td align="right">1</td>
 <td align="right">95.358362</td>
 <td align="right">105.953735</td>
-<td align="right">18.25427</td>
+<td align="right">48.84222</td>
 </tr>
 <tr class="even">
 <td align="right">1</td>
@@ -529,7 +529,7 @@
 <td align="right">1</td>
 <td align="right">95.358362</td>
 <td align="right">105.953735</td>
-<td align="right">67.67294</td>
+<td align="right">44.37228</td>
 </tr>
 <tr class="odd">
 <td align="right">1</td>
@@ -547,7 +547,7 @@
 <td align="right">1</td>
 <td align="right">6.399843</td>
 <td align="right">7.110936</td>
-<td align="right">18.25427</td>
+<td align="right">48.84222</td>
 </tr>
 <tr class="even">
 <td align="right">1</td>
@@ -565,7 +565,7 @@
 <td align="right">1</td>
 <td align="right">6.399843</td>
 <td align="right">7.110936</td>
-<td align="right">67.67294</td>
+<td align="right">44.37228</td>
 </tr>
 <tr class="odd">
 <td align="right">1</td>
@@ -583,7 +583,7 @@
 <td align="right">1</td>
 <td align="right">6.715106</td>
 <td align="right">7.461229</td>
-<td align="right">18.25427</td>
+<td align="right">48.84222</td>
 </tr>
 <tr class="even">
 <td align="right">1</td>
@@ -601,7 +601,7 @@
 <td align="right">1</td>
 <td align="right">6.715106</td>
 <td align="right">7.461229</td>
-<td align="right">67.67294</td>
+<td align="right">44.37228</td>
 </tr>
 </tbody>
 </table>

diff --git a/reference/merge_directed_flows.html b/reference/merge_directed_flows.html
@@ -154,7 +154,7 @@ flows.</p>
 <span class='co'># undirected flows on an equivalent undirected graph with:</span>
 <span class='no'>graph_undir</span> <span class='kw'>&lt;-</span> <span class='fu'>merge_directed_flows</span> (<span class='no'>graph</span>)
 <span class='co'># This graph will only include those edges having non-zero flows, and so:</span>
-<span class='fu'><a href='https://www.rdocumentation.org/packages/base/topics/nrow'>nrow</a></span> (<span class='no'>graph</span>); <span class='fu'><a href='https://www.rdocumentation.org/packages/base/topics/nrow'>nrow</a></span> (<span class='no'>graph_undir</span>) <span class='co'># the latter is much smaller</span></div><div class='output co'>#&gt; [1] 5845</div><div class='output co'>#&gt; [1] 983</div></pre>
+<span class='fu'><a href='https://www.rdocumentation.org/packages/base/topics/nrow'>nrow</a></span> (<span class='no'>graph</span>); <span class='fu'><a href='https://www.rdocumentation.org/packages/base/topics/nrow'>nrow</a></span> (<span class='no'>graph_undir</span>) <span class='co'># the latter is much smaller</span></div><div class='output co'>#&gt; [1] 5845</div><div class='output co'>#&gt; [1] 866</div></pre>
   </div>
   <div class="col-md-3 hidden-xs hidden-sm" id="sidebar">
     <h2>Contents</h2>
